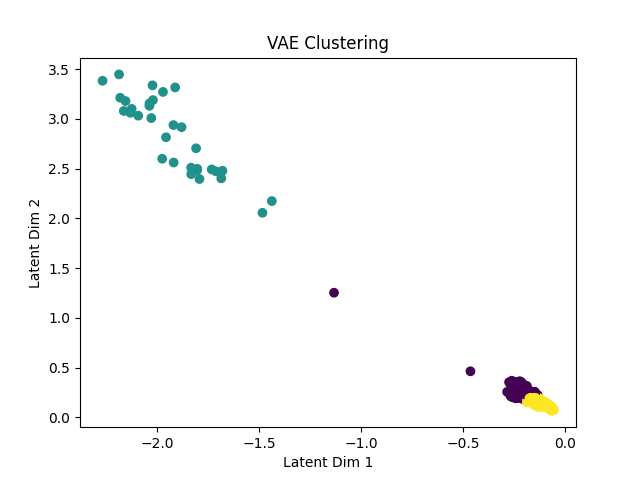
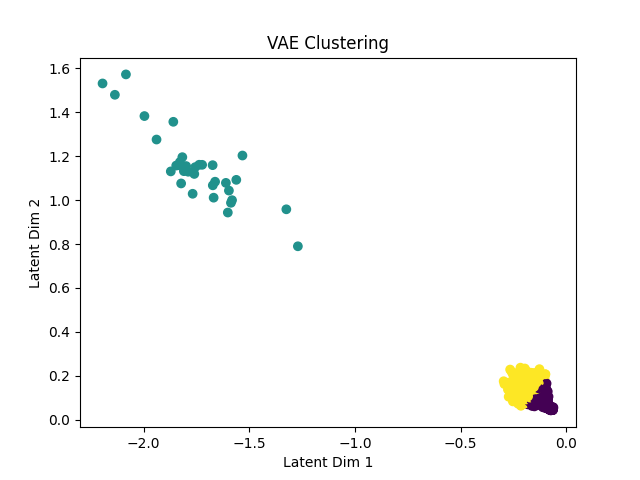
Compression

diff --git a/compression.py b/compression.py
@@ -1,11 +1,9 @@
 import numpy as np
 import pandas as pd
 import os
-import tensorflow as tf
 from tensorflow.keras import layers, models, backend as K
 from tensorflow.keras.losses import binary_crossentropy
 import matplotlib.pyplot as plt
-
 
 # Load CSV files function
 def load_csv_files(directory_path):
@@ -17,11 +15,9 @@ def load_csv_files(directory_path):
             dataframes.append(df)
     return dataframes
 
-
 # Data preprocessing functions
 def hex_to_binary(hex_str):
     return bytes.fromhex(hex_str)
-
 
 def preprocess_data(dataframes, sample_size=None):
     combined_df = pd.concat(dataframes)
@@ -31,40 +27,8 @@ def preprocess_data(dataframes, sample_size=None):
         combined_df = combined_df.sample(n=sample_size, random_state=42).reset_index(drop=True)
     return combined_df
 
-
 def pad_data(data, max_length):
     return np.pad(data, (0, max_length - len(data)), 'constant')
-
-
-# Custom layer for VAE loss
-class VAELossLayer(layers.Layer):
-    def __init__(self, input_dim, **kwargs):
-        super(VAELossLayer, self).__init__(**kwargs)
-        self.input_dim = input_dim
-        self.reconstruction_loss_tracker = tf.keras.metrics.Mean(name="reconstruction_loss")
-        self.kl_loss_tracker = tf.keras.metrics.Mean(name="kl_loss")
-
-    def call(self, inputs):
-        x, z_mean, z_log_var, outputs = inputs
-        reconstruction_loss = binary_crossentropy(x, outputs) * self.input_dim
-        kl_loss = 1 + z_log_var - K.square(z_mean) - K.exp(z_log_var)
-        kl_loss = K.sum(kl_loss, axis=-1)
-        kl_loss *= -0.5
-        total_loss = K.mean(reconstruction_loss + kl_loss)
-
-        self.add_loss(total_loss)
-        self.reconstruction_loss_tracker.update_state(reconstruction_loss)
-        self.kl_loss_tracker.update_state(kl_loss)
-
-        return outputs
-
-    def compute_output_shape(self, input_shape):
-        return input_shape[0]
-
-    @property
-    def metrics(self):
-        return [self.reconstruction_loss_tracker, self.kl_loss_tracker]
-
 
 # Define the VAE model
 def create_vae(input_dim, latent_dim):
@@ -94,36 +58,38 @@ def create_vae(input_dim, latent_dim):
 
     decoder = models.Model(latent_inputs, outputs, name='decoder')
 
-    # VAE with custom loss layer
-    vae_outputs = decoder(encoder(inputs)[2])
-    vae_outputs = VAELossLayer(input_dim)([inputs, encoder(inputs)[0], encoder(inputs)[1], vae_outputs])
-    vae = models.Model(inputs, vae_outputs, name='vae')
+    # VAE
+    outputs = decoder(encoder(inputs)[2])
+    vae = models.Model(inputs, outputs, name='vae')
 
+    def vae_loss(inputs, outputs):
+        reconstruction_loss = binary_crossentropy(inputs, outputs) * input_dim
+        kl_loss = 1 + z_log_var - K.square(z_mean) - K.exp(z_log_var)
+        kl_loss = K.sum(kl_loss, axis=-1)
+        kl_loss *= -0.5
+        return K.mean(reconstruction_loss + kl_loss)
+
+    vae.add_loss(vae_loss(inputs, outputs))
     vae.compile(optimizer='adam')
     return vae, encoder, decoder
-
 
 # Train VAE and track performance metrics
 def train_vae(dataframes, latent_dim=2, batch_size=50, epochs=10):
     combined_df = preprocess_data(dataframes, sample_size=500)  # Adjust sample size as needed
     max_length = max(combined_df['binary_data'].apply(len))
     input_dim = max_length
-    data = np.stack(
-        combined_df['binary_data'].apply(lambda x: pad_data(np.frombuffer(x, dtype=np.uint8), max_length)).values)
+    data = np.stack(combined_df['binary_data'].apply(lambda x: pad_data(np.frombuffer(x, dtype=np.uint8), max_length)).values)
     data = data.astype('float32') / 255.0  # Normalize the data
 
     vae, encoder, decoder = create_vae(input_dim, latent_dim)
-    history = vae.fit(data, data, epochs=epochs, batch_size=batch_size, verbose=1)
-
-    return vae, encoder, decoder, history
-
+    vae.fit(data, data, epochs=epochs, batch_size=batch_size, verbose=1)
+    return vae, encoder, decoder
 
 # Visualize VAE results
 def visualize_latent_space(encoder, dataframes, plot_filename='vae_latent_space.png'):
     combined_df = preprocess_data(dataframes, sample_size=500)  # Adjust sample size as needed
     max_length = max(combined_df['binary_data'].apply(len))
-    data = np.stack(
-        combined_df['binary_data'].apply(lambda x: pad_data(np.frombuffer(x, dtype=np.uint8), max_length)).values)
+    data = np.stack(combined_df['binary_data'].apply(lambda x: pad_data(np.frombuffer(x, dtype=np.uint8), max_length)).values)
     data = data.astype('float32') / 255.0  # Normalize the data
     z_mean, _, _ = encoder.predict(data)
     plt.scatter(z_mean[:, 0], z_mean[:, 1])
@@ -133,23 +99,8 @@ def visualize_latent_space(encoder, dataframes, plot_filename='vae_latent_space.
     plt.savefig(plot_filename)
     plt.close()
 
-
-# Plot training loss
-def plot_loss(history, plot_filename='vae_loss.png'):
-    plt.plot(history.history['loss'], label='Total Loss')
-    plt.plot(history.history['reconstruction_loss'], label='Reconstruction Loss')
-    plt.plot(history.history['kl_loss'], label='KL Loss')
-    plt.title('Model Loss')
-    plt.ylabel('Loss')
-    plt.xlabel('Epoch')
-    plt.legend()
-    plt.savefig(plot_filename)
-    plt.close()
-
-
 if __name__ == "__main__":
     directory_path = r'D:\FSl Data\fslhomes-user000-2015-04-10'  # Update this path as needed
     fsl_data = load_csv_files(directory_path)
-    vae, encoder, decoder, history = train_vae(fsl_data, latent_dim=2, batch_size=50, epochs=10)
+    vae, encoder, decoder = train_vae(fsl_data, latent_dim=2, batch_size=50, epochs=10)
     visualize_latent_space(encoder, fsl_data)
-    plot_loss(history)

diff --git a/visualization.py b/visualization.py
@@ -19,7 +19,7 @@ def plot_hash_distribution(dataframes):
 
 if __name__ == "__main__":
     # Load the CSV files
-    directory_path = r'C:\Users\gll4kc\Downloads\fslhomes-user000-2015-04-10'
+    directory_path = r'D:\FSl Data\fslhomes-user000-2015-04-10'
     fsl_data = load_csv_files(directory_path)
 
     # Add hash columns
